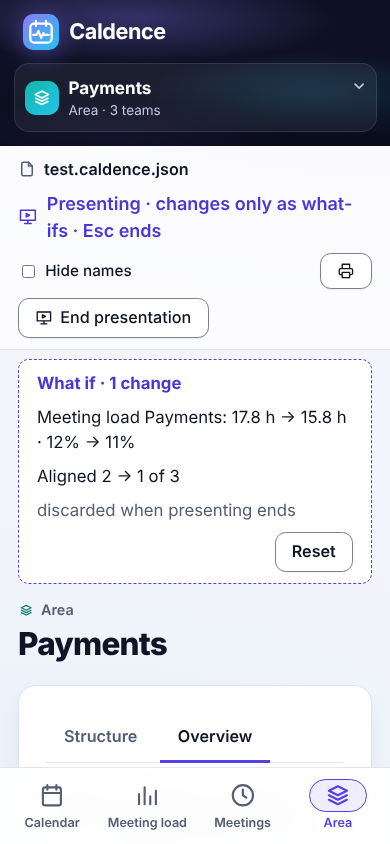
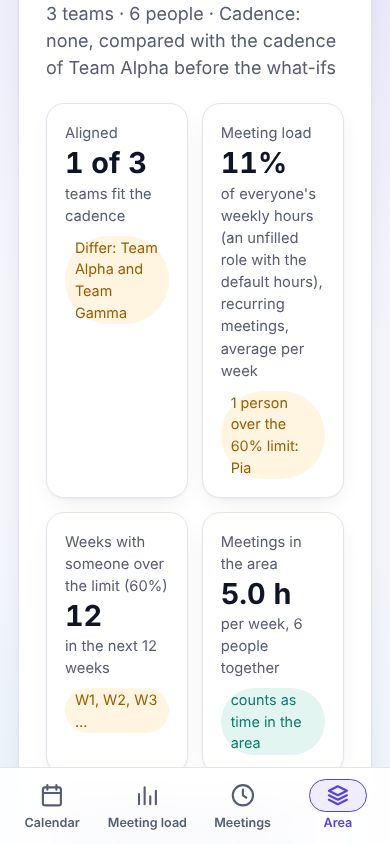
Review fixes for #470: meeting what-ifs use the saved reference, changed flag in core

diff --git a/src/core/areaOverview.ts b/src/core/areaOverview.ts
@@ -53,8 +53,11 @@ export interface CadenceRow {
 }
 
 export interface CadenceComparison {
-  /** The reference: the area's own cadence, or (without one) the cadence most teams share. */
-  reference?: { cadence: Cadence; fromArea: boolean; teamId?: string };
+  /**
+   * The reference: the area's own cadence, or (without one) the cadence most teams share.
+   * `changed`: a what-if moved the reference team away from it (#470).
+   */
+  reference?: { cadence: Cadence; fromArea: boolean; teamId?: string; changed?: boolean };
   /** Teams whose cadence equals the peer reference (1 when no two share one); 0 without one. */
   sharing: number;
   /** The area's own periods in the window; empty without an area cadence. */
@@ -152,10 +155,18 @@ export function compareCadences(
     ? undefined
     : peerReference(area.teamIds.flatMap((id) => base.teams.filter((t) => t.id === id)));
   // The saved reference stays unless a what-if makes more teams (two at least) share another.
+  const moves =
+    peer &&
+    sharing(peer.cadence) >= 2 &&
+    sharing(peer.cadence) > (saved ? sharing(saved.cadence) : 0);
   const kept =
-    saved && !(peer && sharing(peer.cadence) > Math.max(1, sharing(saved.cadence)))
-      ? { cadence: saved.cadence, teamId: saved.id }
-      : peer && { cadence: peer.cadence, teamId: peer.id };
+    saved && !moves
+      ? {
+          cadence: saved.cadence,
+          teamId: saved.id,
+          changed: !teams.some((t) => t.id === saved.id && sameCadence(t.cadence, saved.cadence)),
+        }
+      : peer && { cadence: peer.cadence, teamId: peer.id, changed: false };
   const reference = area.cadence
     ? { cadence: area.cadence, fromArea: true }
     : kept && { ...kept, fromArea: false };

diff --git a/src/ui/components/EventForm.svelte b/src/ui/components/EventForm.svelte
@@ -320,7 +320,10 @@
   // The Wirkung box of present mode, live for the draft; nothing is committed here.
   const scope = $derived(effectScope($workspace, team.id));
   const rate = $derived($workspace.settings.hourlyRate);
-  const before = $derived(scope ? whatIfEffect($workspace, $index, scope, rate) : undefined);
+  // While presenting, the area's peer reference stays the one from before the what-ifs (#470).
+  const presentBase = workspace.presentBase;
+  const saved = $derived($presentBase ?? $workspace);
+  const before = $derived(scope ? whatIfEffect($workspace, $index, scope, rate, saved) : undefined);
   // Only the fields that change the numbers: typing a name, time or category recomputes nothing.
   const effectKey = $derived(
     Object.keys(dupErrors()).length > 0
@@ -332,7 +335,9 @@
     const checked = validate(upsertEvent($workspace, team.id, JSON.parse(effectKey))[0]);
     return checked.ok ? checked.value : undefined;
   });
-  const after = $derived(scope && drafted ? whatIfEffect(drafted, $index, scope, rate) : undefined);
+  const after = $derived(
+    scope && drafted ? whatIfEffect(drafted, $index, scope, rate, saved) : undefined,
+  );
   /** A team in an area: its own load comes first, the area's can round to the same (#340). */
   const own = $derived.by(() => {
     if (!drafted || scope === team.id) return undefined;

diff --git a/tests/unit/area-overview.test.ts b/tests/unit/area-overview.test.ts
@@ -184,13 +184,16 @@ describe('compareCadences', () => {
       false,
     ]);
     const c = compareCadences(whatIf, a, '2027-01-04', 12, saved);
-    expect(c.reference).toMatchObject({ teamId: 'alpha', cadence: sprint(2) });
+    expect(c.reference).toMatchObject({ teamId: 'alpha', cadence: sprint(2), changed: true });
     expect(c.rows.map((r) => r.inStep)).toEqual([false, true, false]);
     expect(c.rows[0]!.reasons).toEqual([{ kind: 'length', weeks: 4, reference: 2 }]);
     expect(c.sharing).toBe(1);
     // Alpha tries Gamma's 3 weeks: now more teams share that one, so it is the reference.
     const joined = compareCadences(withAlpha(sprint(3)), a, '2027-01-04', 12, saved);
-    expect(joined.reference).toMatchObject({ teamId: 'alpha', cadence: sprint(3) });
+    expect(joined.reference).toMatchObject({ teamId: 'alpha', cadence: sprint(3), changed: false });
+    // A start moved by a whole period is the same cadence: the reference is unchanged.
+    const moved = compareCadences(withAlpha(sprint(2, '2027-01-18')), a, '2027-01-04', 12, saved);
+    expect(moved.reference).toMatchObject({ cadence: sprint(2), changed: false });
     expect(joined.rows.map((r) => r.inStep)).toEqual([true, false, true]);
     expect(joined.sharing).toBe(2);
   });

diff --git a/src/ui/views/AreaOverview.svelte b/src/ui/views/AreaOverview.svelte
@@ -273,16 +273,15 @@
             date: formatDisplayDate($locale, area.cadence.start, 'long'),
           })
         : comparison.reference?.teamId
-          ? $t(peerLead(comparison.reference.teamId, comparison.reference.cadence), {
+          ? $t(peerLead(comparison.reference.changed), {
               team: teamName(comparison.reference.teamId),
             })
           : $t('overview.lead.none'),
     ].join(' · '),
   );
   /** The team's cadence changed in a what-if, or no two teams share one, or most share it. */
-  function peerLead(teamId: string, cadence: Cadence): string {
-    const now = teams.find((x) => x.id === teamId)?.cadence;
-    if (JSON.stringify(now) !== JSON.stringify(cadence)) return 'overview.lead.peer.saved';
+  function peerLead(changed = false): string {
+    if (changed) return 'overview.lead.peer.saved';
     return teams.length > 1 && comparison.sharing < 2
       ? 'overview.lead.peer.first'
       : 'overview.lead.peer';

diff --git a/tests/e2e/area-overview.spec.ts b/tests/e2e/area-overview.spec.ts
@@ -380,7 +380,7 @@ test('presenting, a what-if on the reference team shows that team as differing (
     '4 instead of 2 weeks',
   );
   await expect(overview.locator('[data-team-row="team-beta"]')).toContainText('aligned');
-  await expect(lead).toContainText('compared with the saved cadence of Team Alpha');
+  await expect(lead).toContainText('compared with the cadence of Team Alpha before the what-ifs');
 });
 
 test('when no two teams share a cadence, the lead says so (#470)', async ({ page }) => {

diff --git a/src/ui/components/WhatIfBar.svelte b/src/ui/components/WhatIfBar.svelte
@@ -16,7 +16,7 @@
   const baseIndex = $derived($presentBase ? workspaceIndex($presentBase) : undefined);
   const before = $derived(
     $presentBase && baseIndex && scope && changes > 0
-      ? whatIfEffect($presentBase, baseIndex, scope, rate, $presentBase)
+      ? whatIfEffect($presentBase, baseIndex, scope, rate)
       : undefined,
   );
   const after = $derived(

diff --git a/README.md b/README.md
@@ -24,7 +24,7 @@ Status: stable, see the [latest release](https://github.com/gallandp/caldence/re
 - **Calendar:** Week, Month and Horizon (every week of the planning horizon in one table), with public and school holidays, the cadence and milestones, and filters for one role or one person across all teams. With an area selected, it shows the meetings of all its teams and its own.
 - **Meeting load:** hours per week of everyone in scope (a typical week and the average in the planning horizon), by role and person with their share in meetings (each person judged on all their teams and areas, at most the default hours per week, with their part in the chosen team next to it) and their room before the limit, the meetings behind each person's load per team or area (one-offs marked), a weekly chart, and warnings for weeks over the one limit (share of weekly hours in meetings, set in Settings) or with a load spike; peaks that come back with the cadence are ignored. A week in a warning or a person's peak week opens that week in the Calendar with the person filter set. On phones each person is one stacked row with their share, room before the limit and "over the limit" tag (a tap shows where the time comes from), and the people come before the warnings. Missing hours in an area, or area meetings that take most of the hours there, are one hint per person, not weekly warnings. Time in an area is counted on its own and does not raise a team's load. It counts meeting time, including preparation and the travel time of on-site meetings, not other work.
 - **Meeting costs (optional):** with an hourly rate, Meetings, Meeting load, the area overview and the organisation page show what meetings cost per week and in the planning horizon, which every such figure names (for example "2027, 52 wks"); while presenting, the what-if bar shows the change in both and names whose cost it is (for example "Cost, Payments"). Meetings & cadence and, for a team, Meeting load also show the cost per sprint or PI (not for flow); Meetings & cadence also shows, per meeting, its preparation share and travel time. For a team in an area, its cost card and its row in the area overview also show what the team's people spend in the area's meetings (on the card, and per week in the area overview, also per sprint or PI), split by their weekly hours for people in several teams; this figure is informative and not added to the area total.
-- **Present:** shows the plan on a projector with editing out of the way; duration, rhythm and cadence (length and start date) change only as what-ifs, which end with the presentation. On an area overview, the pencil in each cadence row tries another cadence for that team or the area, and "Aligned 2 of 3" changes on the spot. In an area without a cadence of its own, teams stay compared with the cadence from the saved file, so the team you change is the one shown as differing.
+- **Present:** shows the plan on a projector with editing out of the way; duration, rhythm and cadence (length and start date) change only as what-ifs, which end with the presentation. On an area overview, the pencil in each cadence row tries another cadence for that team or the area, and "Aligned 2 of 3" changes on the spot. In an area without a cadence of its own, teams stay compared with the cadence from before the what-ifs, so the team you change is the one shown as differing.
 - **Print and PDF:** prints the current view, also while presenting with its what-ifs, with one line naming the file, print date, hourly rate and planning horizon.
 - Templates for Scrum, Kanban and SAFe (with a Release Train area above the team), plus your own template files; exporting a team as a template also writes its area. A template's level names are only taken into a file without teams.
 - Calendar export and import as `.ics` files (Outlook, Google Calendar, Apple Calendar), also one file per team or area as a ZIP (with an area selected in a file with several areas, only that area and its teams); exporting again updates the entries of the earlier export in apps that support it, keeps a series' earlier start and leaves unchanged entries as they are; the export names the date its series end. Each entry's title names the meeting and its team or area ("Daily Scrum · Alpha"), and a meeting's place or online link becomes its location. Meetings on a public holiday of the chosen region are left out; Meetings & cadence and the export name them with their dates beforehand, each date opening that day in the calendar. The export opens on what this browser exported last, or on your own person after "I take part myself" in the wizard.
